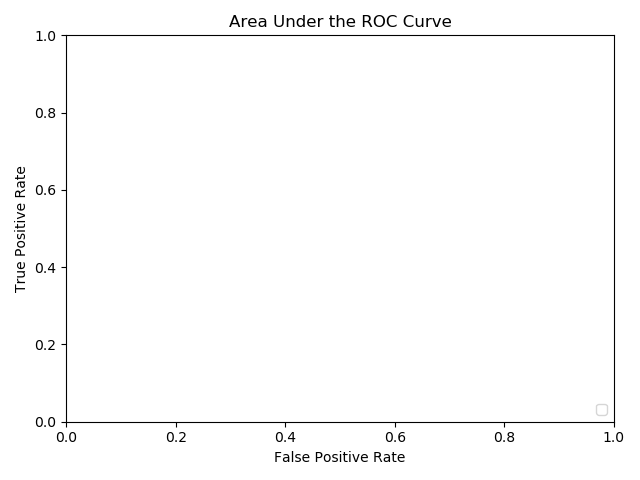
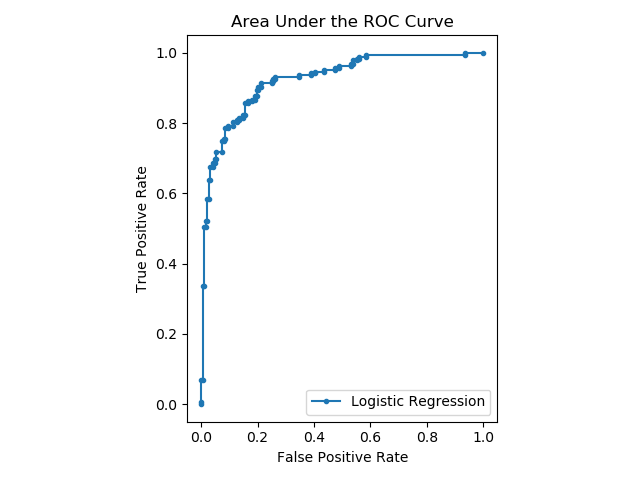
experiment image prepared

diff --git a/experiments.py b/experiments.py
@@ -2,12 +2,14 @@ from program_run_start_to_end import predict_cross_val_train_set
 import numpy as np
 import sklearn.metrics as metrics
 import matplotlib.pyplot as plt
+from matplotlib.patches import Rectangle
 
 
 # for each balancing type, we run the code with different solvers, different thresholds and different ngrams
 def run_experiment_balance_solver(balancing_type, solver):
 
-    thresholds_list = [np.arange(0, 1.05, 0.05)]
+    thresholds_list = np.arange(0, 1.05, 0.05)
+    print(type(thresholds_list))
     print(thresholds_list)
     ngrams_list = [[1, 1], [1, 2], [1, 3], [2, 2], [2, 3], [3, 3]]
 
@@ -19,7 +21,7 @@ def run_experiment_balance_solver(balancing_type, solver):
                                                                                           solver,
                                                                                           ngram[0],
                                                                                           ngram[1])
-            plot_evaluation_image(train_OUTPUT, predicted_OUTPUT, prediction_probs, balancing_type, solver, ngram[0],
+            plot(train_OUTPUT, predicted_OUTPUT, prediction_probs, balancing_type, solver, threshold, ngram[0],
                                   ngram[1])
             break
         break
@@ -37,9 +39,53 @@ def run_all_experiments():
             run_experiment_balance_solver(balancing_type, solver)
 
 
+def plot(test_OUTPUT, predicted_OUTPUT, prediction_probs, balancing_type, solver, threshold, ngram_min, ngram_max):
+
+    fig, ax = plt.subplots()
+    # true positive rate
+    recall = metrics.recall_score(test_OUTPUT, predicted_OUTPUT)
+
+    # no skill prediction
+    no_skill_probs = [0 for _ in range(len(test_OUTPUT))]
+
+    # calculate scores
+    no_skill_auc = metrics.roc_auc_score(test_OUTPUT, no_skill_probs)
+    model_auc = metrics.roc_auc_score(test_OUTPUT, prediction_probs)
+
+    # calculate roc curves
+    no_skills_false_pos_rate, no_skill_true_pos_rate, no_skill_thresholds = metrics.roc_curve(test_OUTPUT, no_skill_probs)
+    model_false_positive_rate, model_true_pos_rate, model_thresholds = metrics.roc_curve(test_OUTPUT, prediction_probs)
+
+    experiment_params = '\n'.join((
+        'Balancing type:  {}'.format(balancing_type),
+        'Solver:  {}'.format(solver),
+        'Threshold:  {}'.format(threshold),
+        'N-grams:  ({}, {})'.format(ngram_min, ngram_max),
+        'AUC:  %.3f' % (model_auc,),
+        'Recall:  %.3f' % (recall,),
+    ))
+
+    ax.plot(model_false_positive_rate, model_true_pos_rate, marker='.', label='Logistic')
+    ax.plot(no_skills_false_pos_rate, no_skill_true_pos_rate, linestyle='--', label='No skills')
+    # these are matplotlib.patch.Patch properties
+    props = dict(boxstyle='round', facecolor='none', edgecolor='black', alpha=0.7)
+
+    # place a text box in upper left in axes coords
+    ax.text(0.41, 0.3, experiment_params, transform=ax.transAxes, fontsize=10,
+            verticalalignment='top', bbox=props)
+
+    # axis labels
+    plt.xlabel('False Positive Rate')
+    plt.ylabel('True Positive Rate')
+    plt.legend(loc='best')
+
+    plt.show()
+
+
 def plot_evaluation_image(test_OUTPUT, predicted_OUTPUT, prediction_probs, balancing_type, solver, ngram_min, ngram_max):
-    # recall (true positive rate)
-    print("Recall:", metrics.recall_score(test_OUTPUT, predicted_OUTPUT))
+
+    # true positive rate
+    recall = metrics.recall_score(test_OUTPUT, predicted_OUTPUT)
 
     model_auc = metrics.roc_auc_score(test_OUTPUT, prediction_probs)
     print('Logistic: ROC AUC=%.3f' % model_auc)
@@ -49,23 +95,27 @@ def plot_evaluation_image(test_OUTPUT, predicted_OUTPUT, prediction_probs, balan
 
     # plot the roc curve for the model
     plt.plot(model_false_positive_rate, model_true_pos_rate, marker='.', label='Logistic Regression')
+    plt.title('Area Under the ROC Curve')
 
-    fig, ax = plt.subplots()
-    ax.text(0.05, 0.95, "text here", transform=ax.transAxes, fontsize=14,
-        verticalalignment='top')
+    font = {'family': 'serif',
+            'color': 'darkred',
+            'weight': 'normal',
+            'size': 16,
+            }
 
-    plt.show()
-
+   # plt.text(6, 6, 'some text\n another line', fontdict=font)
 
     # axis labels
     plt.xlabel('False Positive Rate')
     plt.ylabel('True Positive Rate')
-    plt.title('Area Under the ROC Curve')
 
     # show the legend
-    plt.legend(loc='lower right')
+    plt.legend(title='Recall: {}\nAUC={}' .format(recall, round(model_auc, 3)), loc='lower right')
+    # Tweak spacing to prevent clipping of ylabel
+   #  plt.subplots_adjust(left=0.15)
+    plt.show()
 
-
+    '''
     plt.tight_layout()
     # show the plot
     auc_fig = plt.gcf()
@@ -74,6 +124,7 @@ def plot_evaluation_image(test_OUTPUT, predicted_OUTPUT, prediction_probs, balan
     plt.draw()
     auc_fig.savefig('plots/auc_plt.png')
     plt.clf()
+    '''
 
 
 # run_all_experiments()
